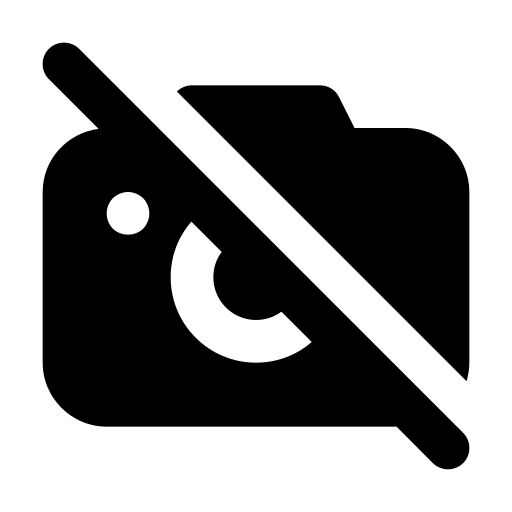
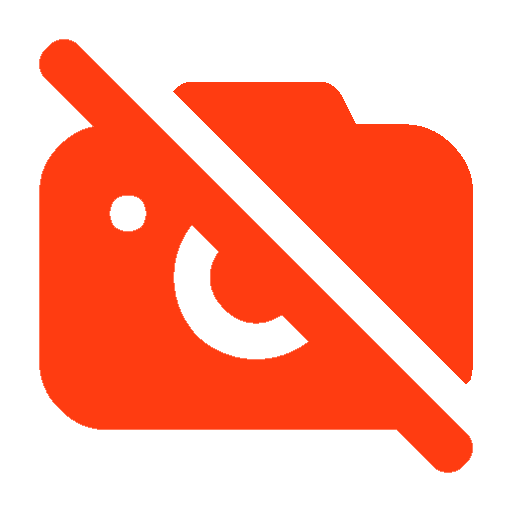
facial recognition bug fixed + small errors

diff --git a/FaceRecognitionDeployment/fr_project/authentication/static/css/styles.css b/FaceRecognitionDeployment/fr_project/authentication/static/css/styles.css
@@ -75,14 +75,20 @@ html {
 
   .camera-area2{
     border:1px solid;
-    border-color: rgb(255, 255, 255);
+    border-color: rgb(255, 150, 0);
     margin-bottom: 10px;
     text-align: center;
   }
 
-  .login-box .camera-area .camera-img,
-  .login-box .camera-area2 .camera-img{
+  .login-box .camera-area .camera-img{
     filter: invert(0.5);
+    max-width: 200px;
+    display: block;
+    margin-left: auto;
+    margin-right: auto;
+  }
+
+  .login-box .camera-area2 .camera-img{
     max-width: 200px;
     display: block;
     margin-left: auto;

diff --git a/FaceRecognitionDeployment/fr_project/authentication/templates/login1.html b/FaceRecognitionDeployment/fr_project/authentication/templates/login1.html
@@ -28,15 +28,15 @@
     </div>
   </a>
   {% else %}
-  <a href="#">
+  <div>
     <div class="camera-area2" id="radiotfoto">
       <div id="withOutCameraPic">
         <img class="camera-img" src="{% static 'imgs/noCameras.png' %}" alt="Sin reconocedor">
-        <p class="pr-4 camera-div-text"> No dispones de reconocedor
+        <p class="pr-4 camera-div-text" style="color:tomato;"> No dispones de reconocedor
         <p>
       </div>
     </div>
-  </a>
+  </div>
   {% endif %}
 
   <p class="change-form" id="correo_equivocado">

diff --git a/FaceRecognitionDeployment/fr_project/authentication/views.py b/FaceRecognitionDeployment/fr_project/authentication/views.py
@@ -13,9 +13,9 @@ import math
 # Create your views here.
 
 # TODO: arreglar el spaninglish
-# TODO: comentar bien todo para que esté bien especificado
+# TODO: comentar bien el código para que esté bien especificado
 # TODO: hacer que tomar las imágenes vaya más rapido plz
-# TODO: revisar el reconocimiento facial una vez esté todo acabado
+# TODO: revisar el reconocimiento facial al final cuando el resto esté acabado
 
 @require_http_methods(["GET", "POST"])
 def login0(request):
@@ -59,7 +59,6 @@ def login1(request):
             user.cleanUserFolder()
 
             hasRecon = user.recognizer is not None
-            #TODO: quitar el hover de esa parte
             return render(request, "login1.html", {'email': email, 'hasRecon': hasRecon})
         else:
             return redirect("/")
@@ -80,15 +79,17 @@ def login1(request):
     else:
         tmp_path =  user.get_tmp_raw_imgs_path()
         tmpImagesPath = user.get_tmp_processed_imgs_path()
-
+       
+        # Take image from request and save it
         base64_img = request.POST['foto']
         data_img = base64.decodebytes(base64_img.encode('ascii'))
         id = len(os.listdir(tmp_path)) + 1
-        f = open(os.path.join(tmp_path, str(id) + ".png"), 'wb')
+        raw_image_path = os.path.join(tmp_path, str(id) + ".png")
+        f = open(raw_image_path, 'wb')
         f.write(data_img)
         f.close()
 
-        foundFace = parseImage(tmp_path, tmpImagesPath)
+        foundFace = parseImage(raw_image_path, tmpImagesPath)
         numRequest, numFaces = user.setAndGetMetadata(newFace = foundFace)
 
         print(str(numFaces) + "/" + str(numRequest))

diff --git a/FaceRecognitionDeployment/fr_project/authentication/faceRecognition.py b/FaceRecognitionDeployment/fr_project/authentication/faceRecognition.py
@@ -30,16 +30,13 @@ def parseImage(rawImagePath, tmpImagesPath):
 
     ret = False
 
-    imageName = os.listdir(rawImagePath)[0]
-    imagePath = os.path.join(rawImagePath, imageName)
-
-    image = face_recognition.load_image_file(imagePath)
+    image = face_recognition.load_image_file(rawImagePath)
 
     mainFaceCoordinates = detectMainFaceCoordinates(image)
 
     if mainFaceCoordinates is not None: # if a face has been found
 
-        cvImage = cv.imread(imagePath)
+        cvImage = cv.imread(rawImagePath)
 
         mainFace = cvImage[mainFaceCoordinates["y"]:mainFaceCoordinates["y"]+mainFaceCoordinates["h"],mainFaceCoordinates["x"]:mainFaceCoordinates["x"]+mainFaceCoordinates["w"]]
         faceDimentions = (260,260)
